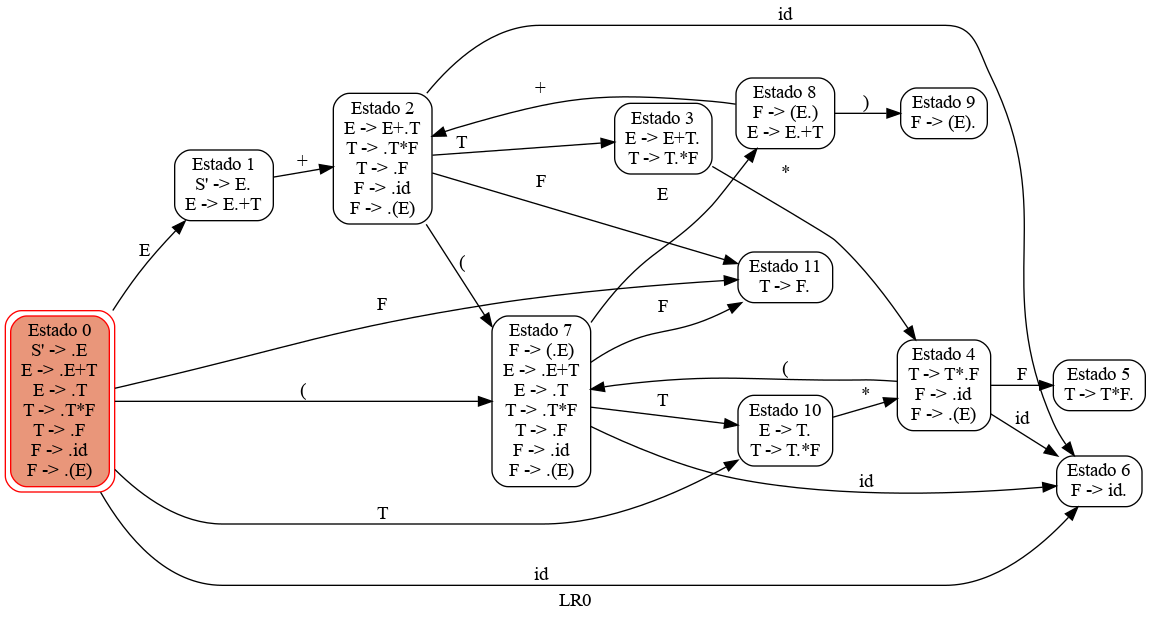
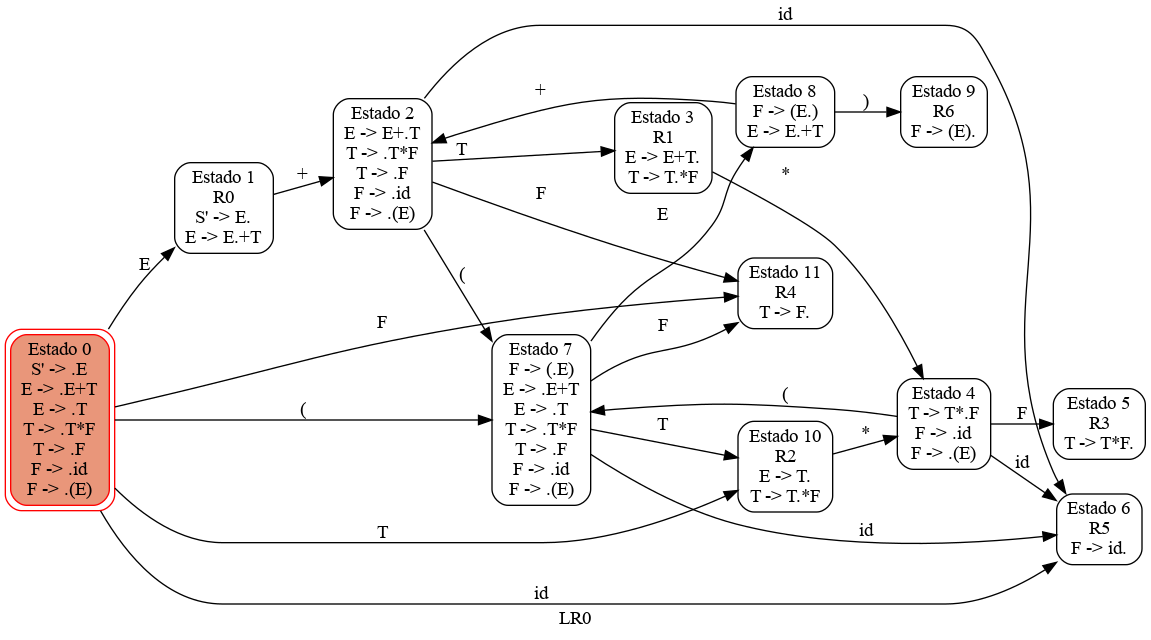
Add RN to LR0

diff --git a/grammar.py b/grammar.py
@@ -37,6 +37,8 @@ class Grammar:
 
         productions: Dict[str, List[List[str]]] = loaded_json["productions"]
 
+        productions_count = 0
+
         for production_left in productions:
             if production_left not in self.no_terminals:
                 raise ErrNoNoTerminalProductionLeft
@@ -50,7 +52,10 @@ class Grammar:
                         print("Symbol:" + symbol)
                         raise ErrSymbolNotDefined
 
-                self.productions.append(Production(production_left, symbols))
+                self.productions.append(
+                    Production(production_left, symbols, productions_count)
+                )
+                productions_count = productions_count + 1
 
     def load_from_file(self, file_path: str):
         file = open(file_path)

diff --git a/analyzer.py b/analyzer.py
@@ -12,8 +12,14 @@ class Analyzer:
         self.lr1: Machine = None
         self.grammar = Grammar()
 
-    def get_drawable_state(self, state: List[Production]):
+    def get_drawable_state(self, state: List[Production]) -> str:
+        if len(state) == 0:
+            return ""
+
         output = "\n".join([str(produ) for produ in state])
+
+        if state[0].is_at_final():
+            output = "R" + str(state[0].index) + "\n" + output
 
         return output
 
@@ -90,7 +96,7 @@ class Analyzer:
                 continue
 
             production_updated = Production(
-                production.left, production.symbols
+                production.left, production.symbols, production.index
             )
 
             production_updated.next_symbol = production.next_symbol

diff --git a/production.py b/production.py
@@ -5,13 +5,13 @@ ErrIsAtFinal = Exception("production is already at final")
 
 
 class Production:
-    def __init__(self, left: str, symbols: List[str]):
+    def __init__(self, left: str, symbols: List[str], index):
         self.left = left
         self.symbols: List[str] = symbols
         self.next_symbol_index = 0
         self.next_symbol: str = self.symbols[self.next_symbol_index]
         self.prev_symbol: str = ""
-        self.index = 0
+        self.index = index
 
     def move_to_next_symbol(self):
         if self.is_at_final():
@@ -25,7 +25,6 @@ class Production:
             return
 
         self.next_symbol = self.symbols[self.next_symbol_index]
-
 
     def is_at_final(self):
         return (
